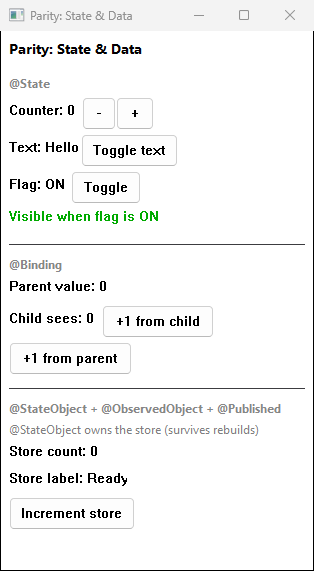
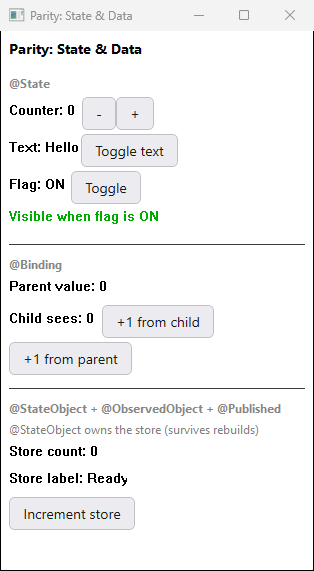
Update Win32 screenshots and docs for D2D flat buttons/borders
Screenshots:
- Recaptured all 16 Windows screenshots (5 Showcase + 11 Parity)
- Added SimplePaint to capture-windows.ps1

Docs:
- screenshot-comparison-win32.md: buttons are D2D flat, not native
- getting-started.md: buttons use D2D, borders use flat GDI
- unified-canvas-api.md: mark lineCap/lineJoin and fill as done on
  Win32, update portable subset status

diff --git a/docs/proposals/unified-canvas-api.md b/docs/proposals/unified-canvas-api.md
@@ -40,7 +40,7 @@ contradicts "write SwiftUI, run anywhere."
 | Drawing model | Path-based: `context.stroke(path, with:)` | Imperative: `context.moveTo(); context.stroke()` |
 | Color | `with: .color(.red)` | `context.setColor(r:g:b:)` |
 | Transforms | Full affine via `.transform` | `scale(x:y:)` only |
-| Stroke style | lineCap, lineJoin, dash | lineCap/lineJoin declared but partially wired |
+| Stroke style | lineCap, lineJoin, dash | lineCap/lineJoin wired via D2D stroke styles; dash not yet |
 | Clipping | `context.clip(to:)` | Not implemented |
 
 ## Verified Backend Implementation Status
@@ -65,9 +65,9 @@ Audited against actual source code, not documentation.
 
 | Operation | GTK4 | Win32 | Web | Issue |
 |-----------|------|-------|-----|-------|
-| fill | All path types | Rect/ellipse only | All path types | Win32 needs ID2D1PathGeometry for arbitrary path fill |
-| setLineCap | Wired to cairo | **No-op** (declared but ignored) | Wired to Canvas2D | Win32 needs D2D stroke style |
-| setLineJoin | Wired to cairo | **No-op** (declared but ignored) | Wired to Canvas2D | Win32 needs D2D stroke style |
+| fill | All path types | All path types (via ID2D1PathGeometry) | All path types | |
+| setLineCap | Wired to cairo | Wired via D2D stroke style | Wired to Canvas2D | |
+| setLineJoin | Wired to cairo | Wired via D2D stroke style | Wired to Canvas2D | |
 
 ### Not implemented on any backend
 
@@ -223,7 +223,7 @@ context.fill(path, with: .color(.blue))
 ```
 
 **Blockers before this ships**:
-- Win32: Wire lineCap/lineJoin via D2D stroke styles
+- ~~Win32: Wire lineCap/lineJoin via D2D stroke styles~~ (done)
 - Win32: Implement fill for arbitrary paths via ID2D1PathGeometry
 
 Backend implementations walk `Path` elements and emit native calls.
@@ -298,6 +298,6 @@ level, not in client code.
    remain accessible as a low-level escape hatch?
 
 2. **StrokeStyle.lineCap in portable subset**: lineCap/lineJoin are
-   wired on GTK4 and Web but not Win32. Should the portable subset
-   include them (making Win32 a blocker) or exclude them (accepting
-   visual inconsistency)?
+   now wired on all three backends (GTK4 via Cairo, Win32 via D2D
+   stroke styles, Web via Canvas2D). They can be included in the
+   portable subset.

diff --git a/docs/guides/getting-started.md b/docs/guides/getting-started.md
@@ -140,8 +140,10 @@ All 14 examples work on Windows.
 
 ### Notes
 
-- Rendering uses native Win32 controls (HWND) for buttons, text fields, toggles, etc.
-- Direct2D is used for Canvas, opacity, scale, and rotation effects.
+- Rendering uses native Win32 controls (HWND) for text fields, toggles, etc.
+- Buttons use D2D flat rendering with rounded corners, hover/press states.
+- Borders use flat 1px GDI rendering (no 3D bezel).
+- Direct2D is used for Canvas, Slider, opacity, scale, and rotation effects.
 - Image rendering uses Windows Imaging Component (WIC) — supports PNG, JPEG, BMP, GIF.
 - Timer-based apps (Stopwatch) work via a hybrid RunLoop + Win32 message pump.
 

diff --git a/docs/architecture/screenshot-comparison-win32.md b/docs/architecture/screenshot-comparison-win32.md
@@ -229,7 +229,7 @@ Reference: `screenshots/macos/` (real SwiftUI) vs `screenshots/windows/` (SwiftO
 ## Platform Differences (Expected)
 
 These are inherent Win32 vs SwiftUI differences, not bugs:
-- Button style: Win32 native pushbuttons vs SwiftUI rounded buttons
+- Button style: D2D flat buttons with rounded corners (close to SwiftUI but not identical)
 - Font weight: .thin weight not available in Win32 text pipeline
 - TextField: Win32 EDIT controls vs SwiftUI text fields (visual styling)
 - Slider: D2D custom slider is close but not identical to SwiftUI native
